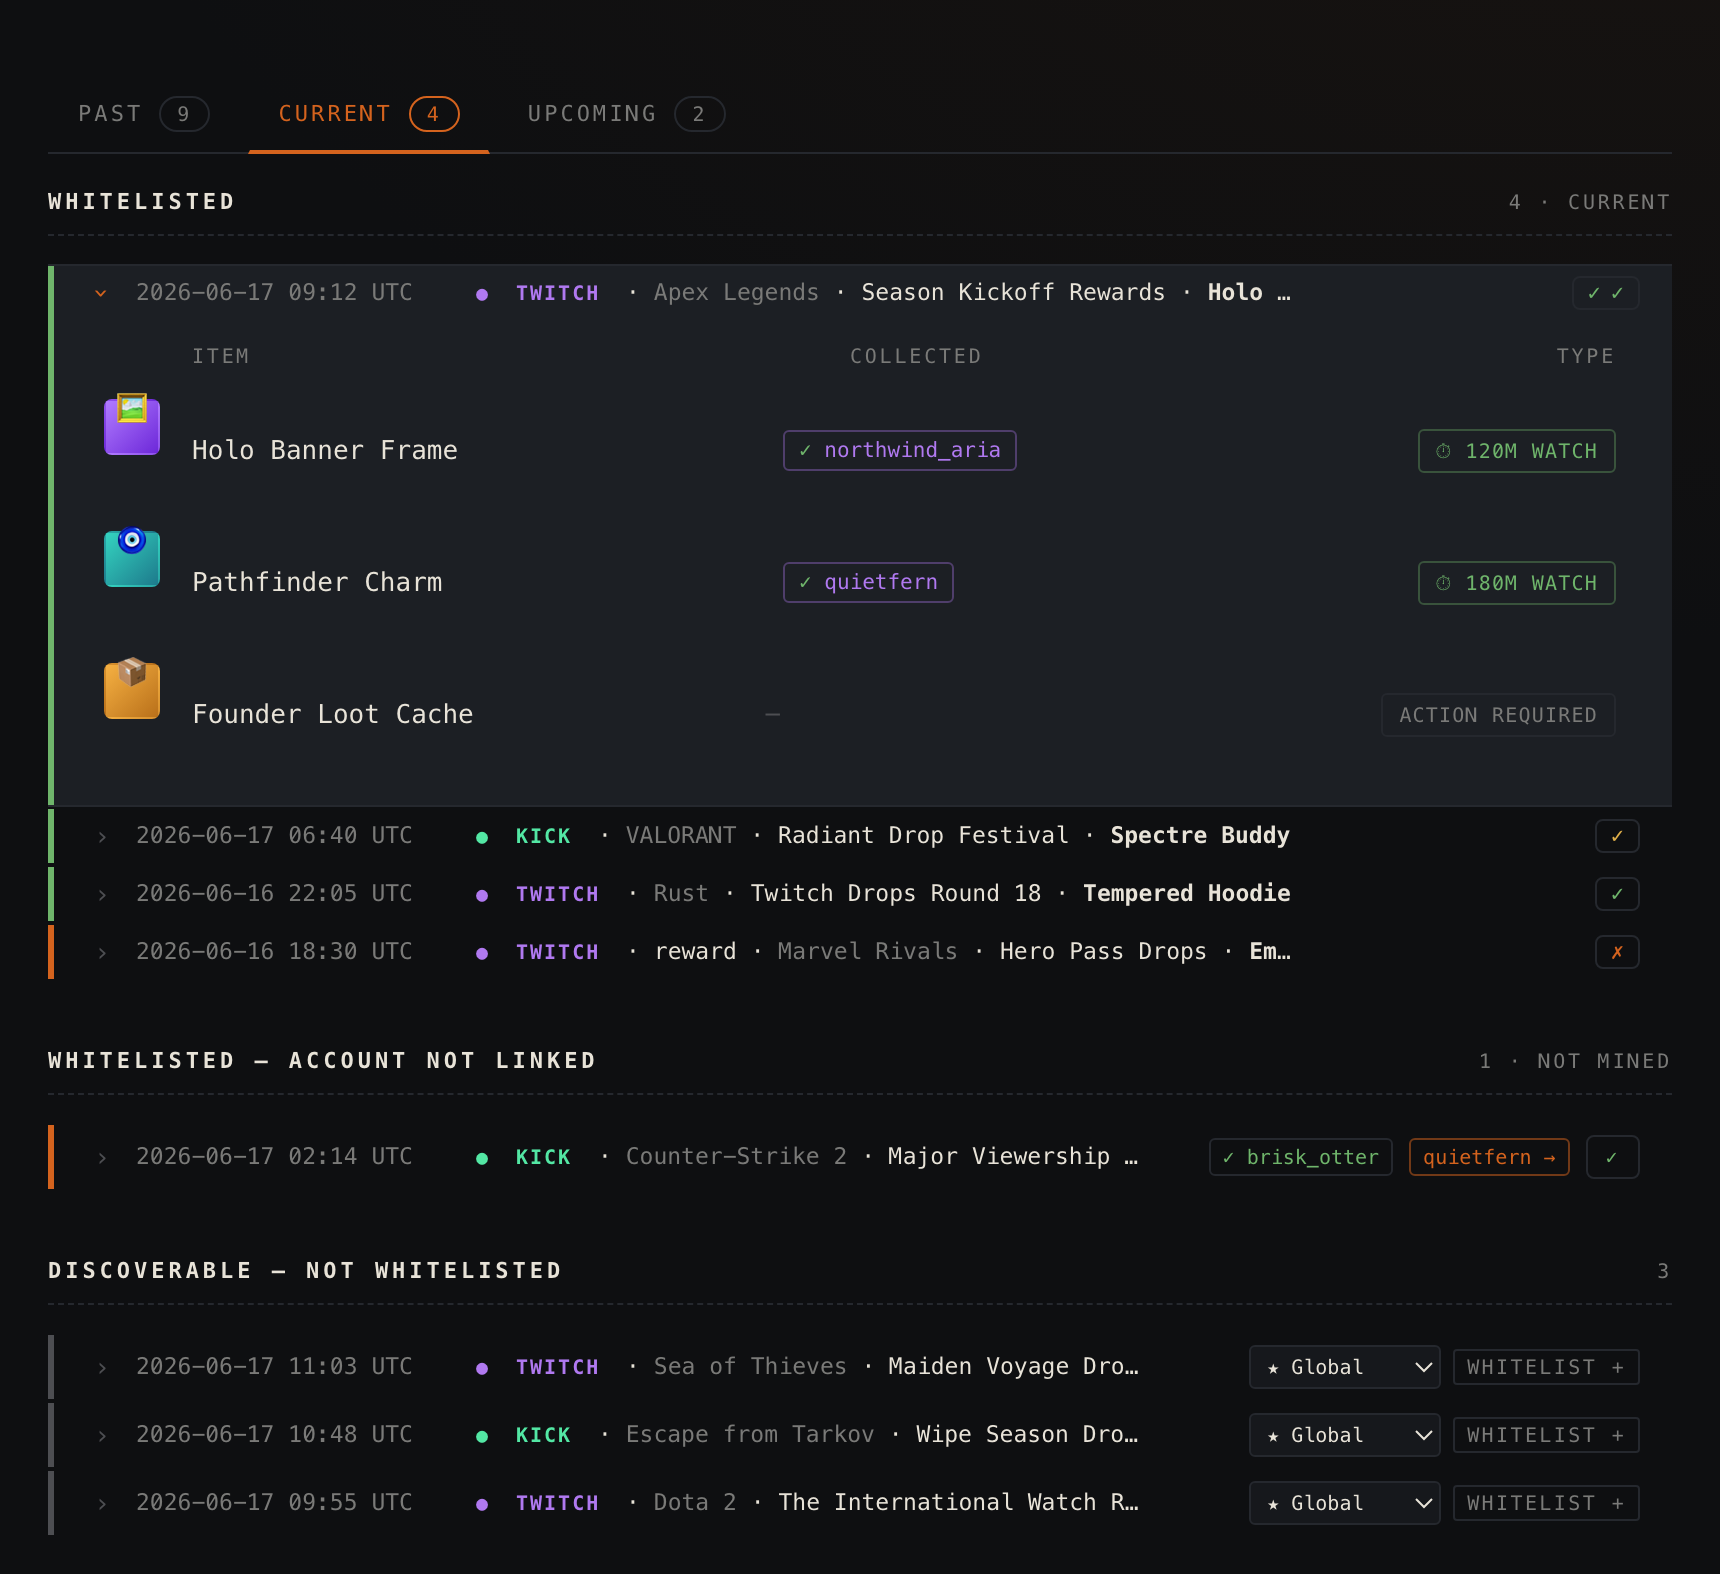
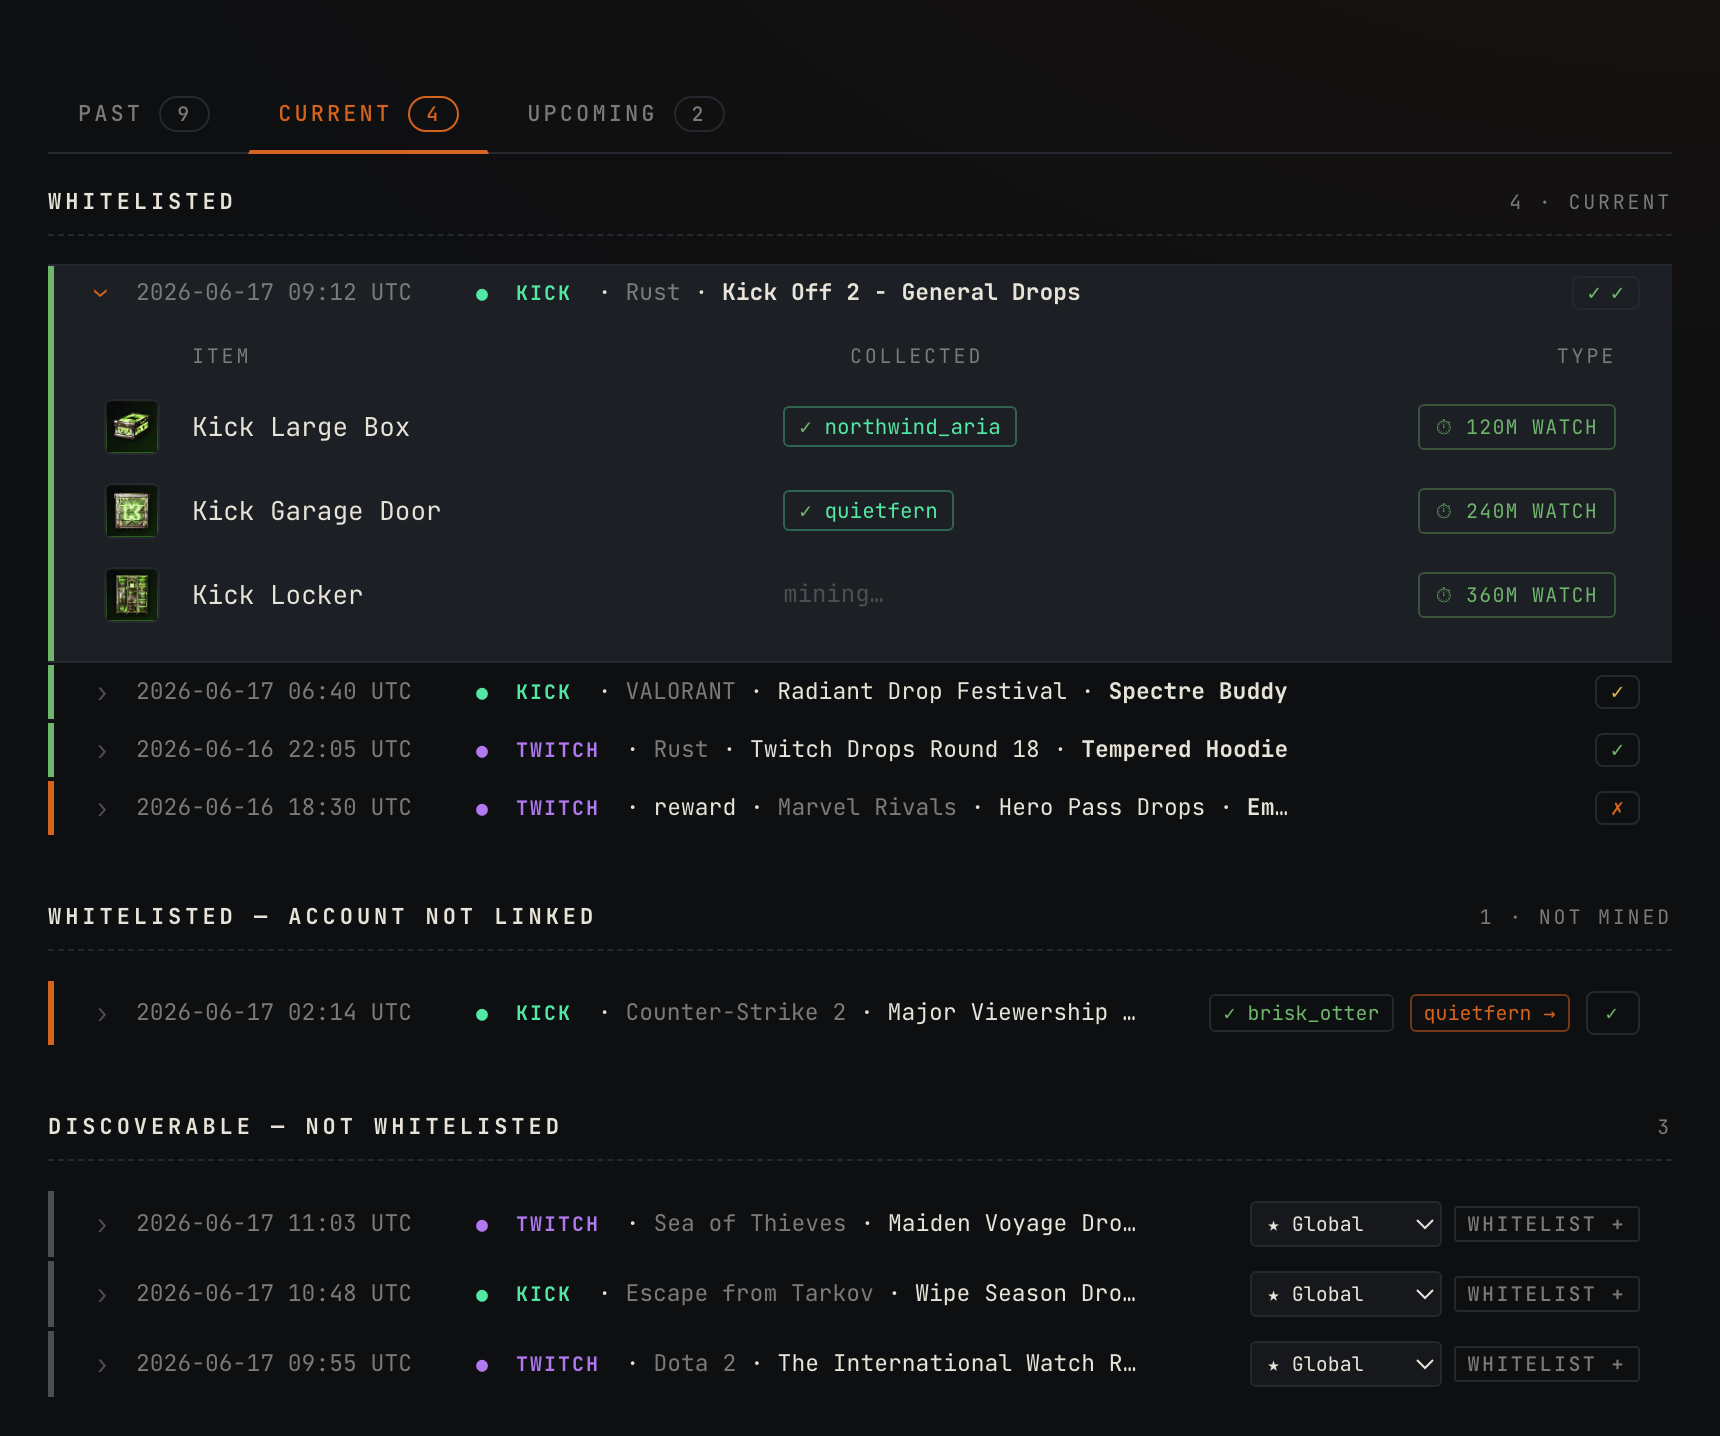
docs(seo): real Kick reward art in drops mockup
Replace the emoji placeholder tiles with actual Kick drop reward images
(pulled via the Chrome-utls getRaw path) and re-theme the expanded campaign
to a Kick 'Rust - Kick Off 2' example matching the real UI.

diff --git a/docs/mockups/drops.html b/docs/mockups/drops.html
@@ -76,30 +76,30 @@
             <summary>
               <span class="chev" aria-hidden="true">›</span>
               <span class="t">2026-06-17 09:12 UTC</span>
-              <span class="lvl" style="color:var(--purple)">●</span>
-              <span class="body"><em style="color:var(--purple)">twitch</em> · <span style="color:var(--muted);">Apex Legends</span> · Season Kickoff Rewards · <strong>Holo Banner Frame</strong></span>
+              <span class="lvl" style="color:var(--kick)">●</span>
+              <span class="body"><em style="color:var(--kick)">kick</em> · <span style="color:var(--muted);">Rust</span> · <strong>Kick Off 2 - General Drops</strong></span>
               <span class="ac collect"><span class="collect-box"><span class="tk" title="northwind_aria collected all watch-time drops">✓</span><span class="tk" title="quietfern collected all watch-time drops">✓</span></span></span>
             </summary>
             <div class="ev-detail-slot">
               <div class="drop-items">
                 <div class="drop-items-head"><span></span><span>item</span><span>collected</span><span>type</span></div>
                 <div class="drop-item">
-                  <span class="drop-item-icon"><span class="ph" style="background:linear-gradient(135deg,#b07bff,#6d28d9);border-color:transparent;display:flex;align-items:center;justify-content:center;font-size:15px;line-height:1;">🖼️</span></span>
-                  <span class="drop-item-name">Holo Banner Frame</span>
-                  <span class="drop-item-collected"><span class="cmark cmark-twitch" title="claimed by northwind_aria">northwind_aria</span></span>
+                  <span class="drop-item-icon"><img src="/Users/jandro/Library/CloudStorage/OneDrive-Personal/00ALX/02Projects/grubdrops/docs/mockups/assets/reward1.webp" alt=""></span>
+                  <span class="drop-item-name">Kick Large Box</span>
+                  <span class="drop-item-collected"><span class="cmark cmark-kick" title="claimed by northwind_aria">northwind_aria</span></span>
                   <span class="drop-item-type"><span class="dtype dtype-watch" title="watch-time drop — auto-mined">⏱ 120m watch</span></span>
                 </div>
                 <div class="drop-item">
-                  <span class="drop-item-icon"><span class="ph" style="background:linear-gradient(135deg,#34d3c0,#1d7a8c);border-color:transparent;display:flex;align-items:center;justify-content:center;font-size:15px;line-height:1;">🧿</span></span>
-                  <span class="drop-item-name">Pathfinder Charm</span>
-                  <span class="drop-item-collected"><span class="cmark cmark-twitch" title="claimed by quietfern">quietfern</span></span>
-                  <span class="drop-item-type"><span class="dtype dtype-watch" title="watch-time drop — auto-mined">⏱ 180m watch</span></span>
+                  <span class="drop-item-icon"><img src="/Users/jandro/Library/CloudStorage/OneDrive-Personal/00ALX/02Projects/grubdrops/docs/mockups/assets/reward2.webp" alt=""></span>
+                  <span class="drop-item-name">Kick Garage Door</span>
+                  <span class="drop-item-collected"><span class="cmark cmark-kick" title="claimed by quietfern">quietfern</span></span>
+                  <span class="drop-item-type"><span class="dtype dtype-watch" title="watch-time drop — auto-mined">⏱ 240m watch</span></span>
                 </div>
                 <div class="drop-item drop-dim">
-                  <span class="drop-item-icon"><span class="ph" style="background:linear-gradient(135deg,#f5b042,#b9701a);border-color:transparent;display:flex;align-items:center;justify-content:center;font-size:15px;line-height:1;">📦</span></span>
-                  <span class="drop-item-name">Founder Loot Cache</span>
-                  <span class="drop-item-collected"><span class="cmark-none">—</span></span>
-                  <span class="drop-item-type"><span class="dtype dtype-action" title="action required">action required</span></span>
+                  <span class="drop-item-icon"><img src="/Users/jandro/Library/CloudStorage/OneDrive-Personal/00ALX/02Projects/grubdrops/docs/mockups/assets/reward3.webp" alt=""></span>
+                  <span class="drop-item-name">Kick Locker</span>
+                  <span class="drop-item-collected"><span class="cmark-none">mining…</span></span>
+                  <span class="drop-item-type"><span class="dtype dtype-watch" title="watch-time drop — auto-mined">⏱ 360m watch</span></span>
                 </div>
               </div>
             </div>